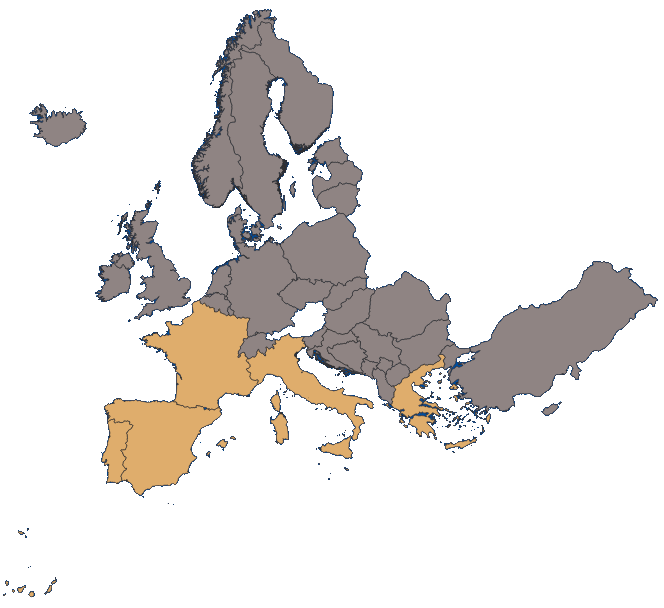
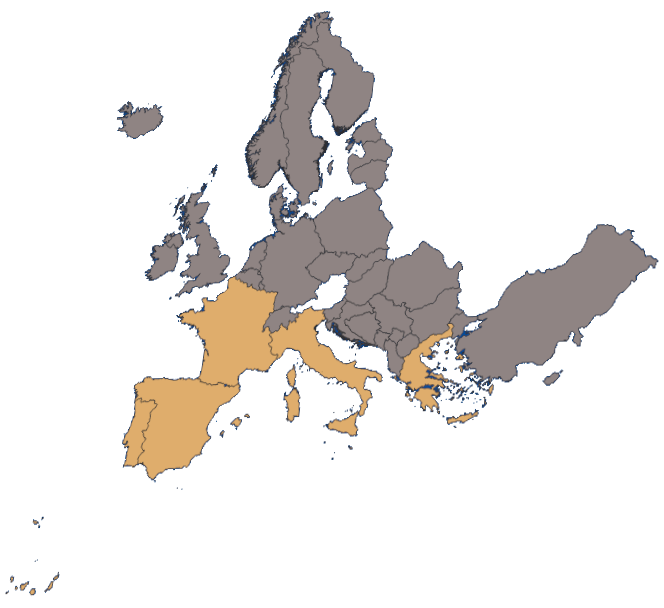
commit2

diff --git a/about_c.html b/about_c.html
@@ -99,37 +99,35 @@
     <section class="w-full flex-shrink-0 min-h-screen" style="background-image: url('https://github.com/clepsydraisa/clepsydra_isa/blob/main/images/bcground.png?raw=true'); background-size: cover; background-repeat: no-repeat; background-position: top center;">
       <div class="container mx-auto px-6 py-4 flex flex-col md:flex-row items-start md:items-center gap-8">
         <!-- Coluna esquerda: Tarefas -->
-        <div class="w-full md:w-1/2 flex flex-col items-start mt-32 pl-8">
-          <div class="w-full bg-white bg-opacity-80 rounded-xl shadow-lg p-10 flex flex-col space-y-8">
-            <div class="flex flex-nowrap items-start space-x-6">
-              <span class="font-extrabold text-2xl md:text-3xl text-blue-900 whitespace-nowrap">Tarefa 1</span>
-              <span class="text-xl md:text-2xl text-white font-normal">
-                Desenvolvimento de ferramentas para <span class="text-red-600 font-semibold">monitorização e obtenção dados</span> e <span class="text-red-600 font-semibold">identificação de lacunas</span>;
-              </span>
-            </div>
-            <div class="flex flex-nowrap items-start space-x-6">
-              <span class="font-extrabold text-2xl md:text-3xl text-blue-900 whitespace-nowrap">Tarefa 2</span>
-              <span class="text-xl md:text-2xl text-white font-normal">
-                criação ou <span class="text-red-600 font-semibold">melhoria/atualização</span> de rede de monitorização - <span class="italic">geração de dados</span>
-              </span>
-            </div>
-            <div class="flex flex-nowrap items-start space-x-6">
-              <span class="font-extrabold text-2xl md:text-3xl text-blue-900 whitespace-nowrap">Tarefa 3</span>
-              <span class="text-xl md:text-2xl text-white font-normal">
-                <span class="text-red-600 font-semibold underline">Observações em em condições reais</span> – Living Lab
-              </span>
-            </div>
-            <div class="flex flex-nowrap items-start space-x-6">
-              <span class="font-extrabold text-2xl md:text-3xl text-blue-900 whitespace-nowrap">Tarefa 4</span>
-              <span class="text-xl md:text-2xl text-white font-normal">
-                Capacitação e sensibilização social
-              </span>
-            </div>
+        <div class="w-full md:w-1/2 flex flex-col items-start mt-32 pl-8 space-y-8">
+          <div class="w-full max-w-2xl bg-white p-6 rounded-lg shadow-md hover:shadow-2xl hover:scale-110 relative hover:z-10 flex flex-col space-y-4">
+            <span class="font-extrabold text-2xl md:text-3xl text-blue-900">Tarefa 1</span>
+            <span class="text-xl md:text-2xl text-gray-800 font-normal">
+              Desenvolvimento de ferramentas para <span class="text-red-500 font-semibold">monitorização e obtenção dados</span> e <span class="text-red-500 font-semibold">identificação de lacunas</span>;
+            </span>
+          </div>
+          <div class="w-full max-w-2xl bg-white p-6 rounded-lg shadow-md hover:shadow-2xl hover:scale-110 relative hover:z-10 flex flex-col space-y-4">
+            <span class="font-extrabold text-2xl md:text-3xl text-blue-900">Tarefa 2</span>
+            <span class="text-xl md:text-2xl text-gray-800 font-normal">
+              Criação ou <span class="text-red-500 font-semibold">melhoria/atualização</span> de rede de monitorização - <span class="italic">geração de dados</span>
+            </span>
+          </div>
+          <div class="w-full max-w-2xl bg-white p-6 rounded-lg shadow-md hover:shadow-2xl hover:scale-110 relative hover:z-10 flex flex-col space-y-4">
+            <span class="font-extrabold text-2xl md:text-3xl text-blue-900">Tarefa 3</span>
+            <span class="text-xl md:text-2xl text-gray-800 font-normal">
+              <span class="text-red-500 font-semibold underline">Observações em condições reais</span> – Living Lab
+            </span>
+          </div>
+          <div class="w-full max-w-2xl bg-white p-6 rounded-lg shadow-md hover:shadow-2xl hover:scale-110 relative hover:z-10 flex flex-col space-y-4">
+            <span class="font-extrabold text-2xl md:text-3xl text-blue-900">Tarefa 4</span>
+            <span class="text-xl md:text-2xl text-gray-800 font-normal">
+              Capacitação e sensibilização social
+            </span>
           </div>
         </div>
         <!-- Coluna direita: Imagem -->
-        <div class="hidden md:flex flex-1 h-[200vh] items-start justify-end mt-40 pr-0" style="margin-right:-250px; padding-right:0;">
-          <img src="https://github.com/clepsydraisa/clepsydra_isa/blob/main/images/europa_clep.png?raw=true" alt="Europa Clepsydra" class="h-full max-h-screen w-auto object-contain m-0 p-0" style="margin-right:0; padding-right:0;" />
+        <div class="hidden md:flex flex-1 h-[95vh] items-start justify-end mt-20 pr-0" style="margin-right:-200px; padding-right:0;">
+          <img src="https://github.com/clepsydraisa/clepsydra_isa/blob/main/images/europa_clep.png?raw=true" alt="Europa Clepsydra" class="h-[1000px] w-[900px] object-contain m-0 p-0" style="margin-right:0; padding-right:0;" />
         </div>
       </div>
     </section>
